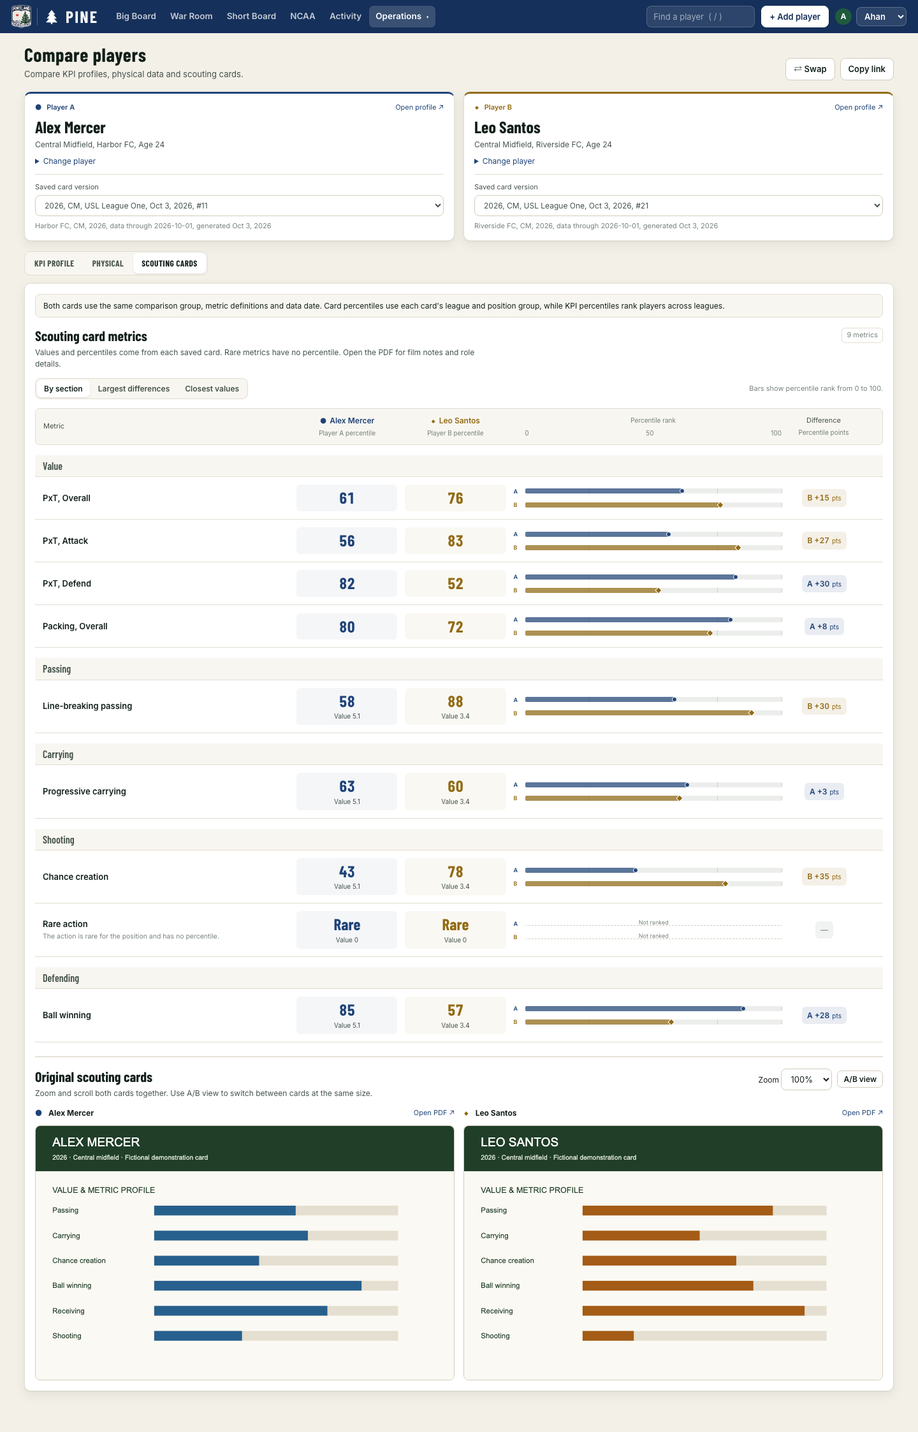
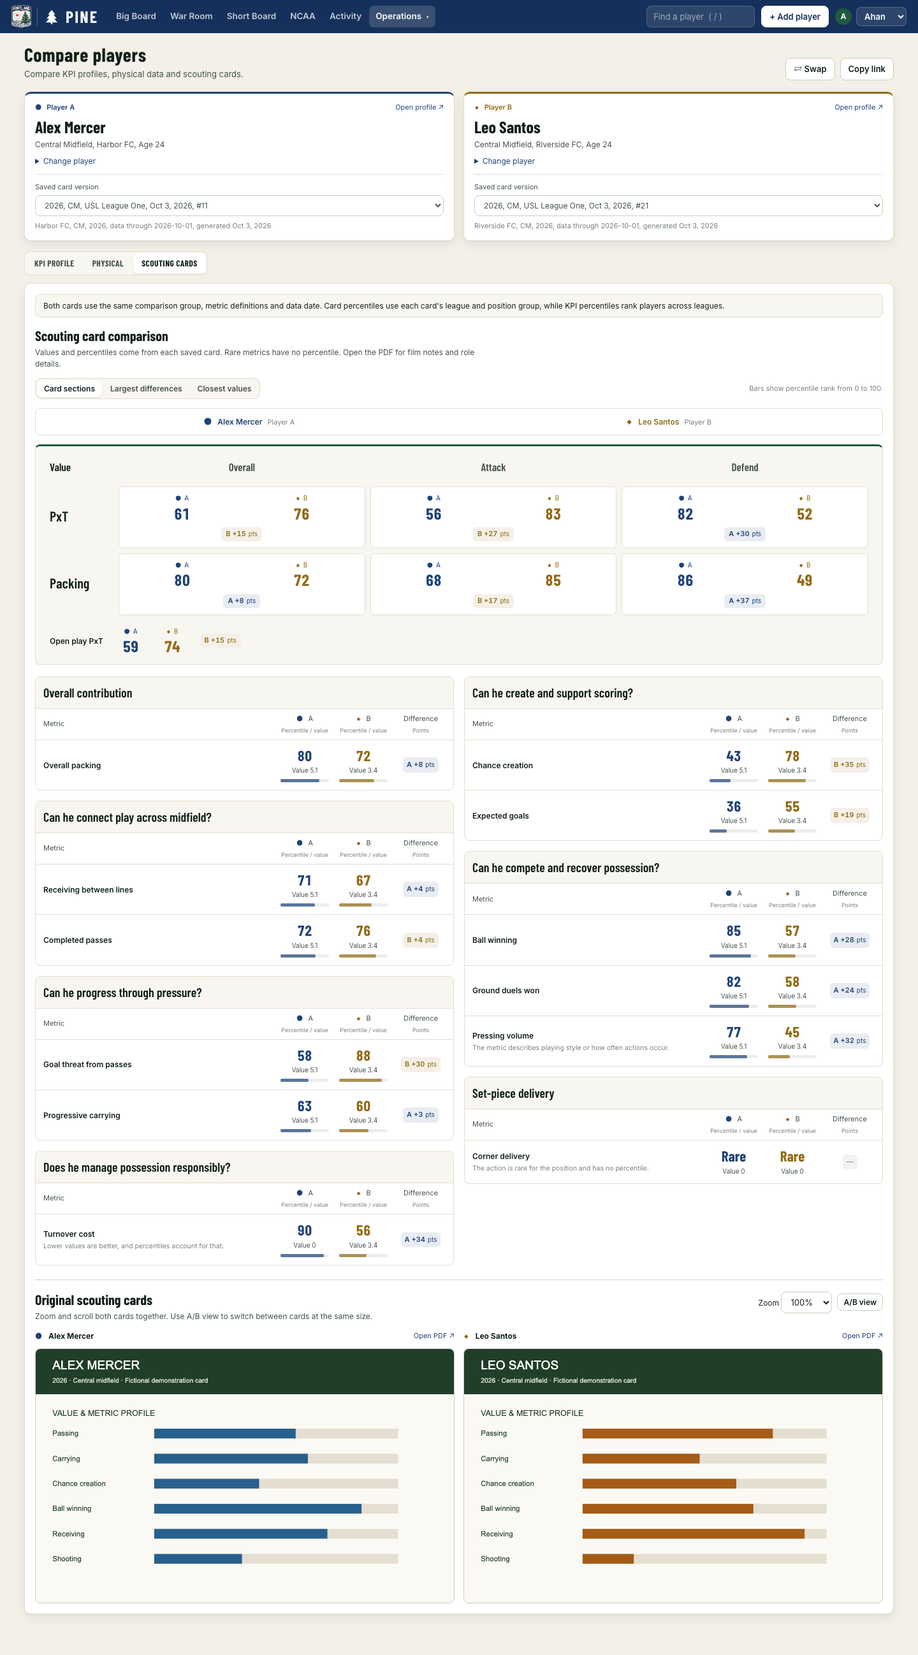
Organize scouting comparisons like the player card

diff --git a/public/scouting-card-sections.js b/public/scouting-card-sections.js
@@ -1,0 +1,54 @@
+// Display sections from hearts-of-pine/data/reference/metric_grid.yml.
+// Source commit: 6a42493dc005e3154ce89d02b5baec21a65f140b. No scores or metric definitions are copied.
+// Keep the question order and metric IDs in sync with the card renderer.
+export const cardQuestions = {
+  CB: [
+    {"label": "Can he protect space and prevent danger?", "metrics": ["SUFFERED_BYPASSED_OPPONENTS", "CONCEDED_PACKING_XG", "DEFENSIVE_POSITIONAL_PLAY_SCORE_PACKING", "NUMBER_OF_FOULS"]},
+    {"label": "Can he compete in both boxes?", "metrics": ["WON_AERIAL_DUELS", "RATIO_AERIAL_DUELS", "WON_GROUND_DUELS", "OFFENSIVE_HEADER_SCORE", "SHOT_AT_GOAL_NUMBER_BY_ACTION_HEADER", "SHOT_XG", "SHOT_AT_GOAL_NUMBER", "GOALS"]},
+    {"label": "Does he anticipate and recover the ball?", "metrics": ["BALL_WIN_NUMBER", "BALL_WIN_REMOVED_OPPONENTS", "BALL_WIN_NUMBER_AT_PHASE_DEFENSIVE_TRANSITION", "NUMBER_OF_PRESSES"]},
+    {"label": "Can he help us play out safely?", "metrics": ["OFFENSIVE_TOUCHES", "SUCCESSFUL_PASSES", "BYPASSED_OPPONENTS_RECEIVING", "BALL_LOSS_ADDED_OPPONENTS"]},
+    {"label": "Can he break lines and change the attack?", "metrics": ["PROGRESSION_SCORE_PACKING", "PXT_PASS_PRO", "BYPASSED_OPPONENTS", "SUCCESSFUL_PASSES_BY_ACTION_DIAGONAL_PASS", "BYPASSED_OPPONENTS_BY_ACTION_CHIPPED_PASS", "BYPASSED_OPPONENTS_TO_PITCH_POSITION_FINAL_THIRD", "BYPASSED_OPPONENTS_BY_ACTION_DRIBBLE", "PXT_DRIBBLE_PRO", "DRIBBLE_SCORE", "NUMBER_OF_FOULS_WON", "EXPECTED_GOAL_ASSISTS"]},
+  ],
+  FB: [
+    {"label": "Can he defend his flank?", "metrics": ["SUFFERED_BYPASSED_OPPONENTS", "CONCEDED_PACKING_XG", "DEFENSIVE_POSITIONAL_PLAY_SCORE_PACKING", "WON_GROUND_DUELS", "WON_AERIAL_DUELS", "RATIO_AERIAL_DUELS", "NUMBER_OF_FOULS"]},
+    {"label": "Can he move us up the pitch?", "metrics": ["PROGRESSION_SCORE_PACKING", "PXT_PASS_PRO", "BYPASSED_OPPONENTS", "BYPASSED_OPPONENTS_BY_ACTION_DRIBBLE", "PXT_DRIBBLE_PRO", "DRIBBLE_SCORE", "BYPASSED_OPPONENTS_TO_PITCH_POSITION_FINAL_THIRD", "SUCCESSFUL_PASSES_BY_ACTION_DIAGONAL_PASS", "BYPASSED_OPPONENTS_BY_ACTION_CHIPPED_PASS", "NUMBER_OF_FOULS_WON"]},
+    {"label": "Can he receive and combine effectively?", "metrics": ["BYPASSED_OPPONENTS_RECEIVING", "PXT_REC", "OFFENSIVE_TOUCHES_BY_ACTION_AVAILABILITY_BTL", "SUCCESSFUL_PASSES", "OFFENSIVE_TOUCHES", "BALL_LOSS_ADDED_OPPONENTS", "PXT_PASS_FAIL"]},
+    {"label": "Does he provide service and goal threat?", "metrics": ["EXPECTED_GOAL_ASSISTS", "SUCCESSFUL_PASSES_BY_ACTION_HIGH_CROSS", "SHOT_XG", "SHOT_AT_GOAL_NUMBER", "GOALS", "OFFENSIVE_HEADER_SCORE", "SHOT_AT_GOAL_NUMBER_BY_ACTION_HEADER"]},
+    {"label": "Can he recover and defend transitions?", "metrics": ["BALL_WIN_NUMBER", "BALL_WIN_REMOVED_OPPONENTS", "INTERVENTIONS_SCORE_PACKING", "BALL_WIN_NUMBER_AT_PHASE_DEFENSIVE_TRANSITION", "NUMBER_OF_PRESSES", "NUMBER_OF_PRESSES_COUNTER_PRESS", "OFFENSIVE_TOUCHES_AT_PHASE_SECOND_BALL"]},
+  ],
+  DM: [
+    {"label": "Can he protect central space?", "metrics": ["SUFFERED_BYPASSED_OPPONENTS", "CONCEDED_PACKING_XG", "DEFENSIVE_POSITIONAL_PLAY_SCORE_PACKING", "NUMBER_OF_FOULS"]},
+    {"label": "Can he win contests and regain possession?", "metrics": ["BALL_WIN_NUMBER", "INTERVENTIONS_SCORE_PACKING", "BALL_WIN_REMOVED_OPPONENTS", "BALL_WIN_NUMBER_AT_PHASE_DEFENSIVE_TRANSITION", "WON_GROUND_DUELS", "WON_AERIAL_DUELS", "RATIO_AERIAL_DUELS", "OFFENSIVE_HEADER_SCORE", "SHOT_AT_GOAL_NUMBER_BY_ACTION_HEADER", "OFFENSIVE_TOUCHES_AT_PHASE_SECOND_BALL", "NUMBER_OF_PRESSES", "NUMBER_OF_PRESSES_COUNTER_PRESS"]},
+    {"label": "Can he give teammates a reliable outlet?", "metrics": ["BYPASSED_OPPONENTS_RECEIVING", "PXT_REC", "OFFENSIVE_TOUCHES_BY_ACTION_AVAILABILITY_BTL", "OFFENSIVE_TOUCHES_BY_ACTION_AVAILABILITY_IN_THE_BACK", "OFFENSIVE_TOUCHES_BY_ACTION_HOLD_UP_PLAY", "OFFENSIVE_TOUCHES_IN_PACKING_ZONE_AM", "OFFENSIVE_TOUCHES", "SUCCESSFUL_PASSES"]},
+    {"label": "Can he progress and support attacks?", "metrics": ["PROGRESSION_SCORE_PACKING", "PXT_PASS_PRO", "BYPASSED_OPPONENTS", "BYPASSED_OPPONENTS_BY_ACTION_DRIBBLE", "PXT_DRIBBLE_PRO", "DRIBBLE_SCORE", "SUCCESSFUL_PASSES_BY_ACTION_DIAGONAL_PASS", "BYPASSED_OPPONENTS_BY_ACTION_CHIPPED_PASS", "BYPASSED_OPPONENTS_TO_PITCH_POSITION_FINAL_THIRD", "NUMBER_OF_FOULS_WON", "EXPECTED_GOAL_ASSISTS", "SHOT_XG", "SHOT_AT_GOAL_NUMBER", "GOALS", "POSTSHOT_XG"]},
+    {"label": "Does he balance progression and security?", "metrics": ["BALL_LOSS_ADDED_OPPONENTS", "PXT_PASS_FAIL"]},
+  ],
+  CM: [
+    {"label": "Can he connect play across midfield?", "metrics": ["BYPASSED_OPPONENTS_RECEIVING", "PXT_REC", "OFFENSIVE_TOUCHES_BY_ACTION_AVAILABILITY_BTL", "OFFENSIVE_TOUCHES_BY_ACTION_AVAILABILITY_IN_THE_BACK", "OFFENSIVE_TOUCHES_BY_ACTION_HOLD_UP_PLAY", "OFFENSIVE_TOUCHES_IN_PACKING_ZONE_AM", "OFFENSIVE_TOUCHES", "SUCCESSFUL_PASSES"]},
+    {"label": "Can he progress through pressure?", "metrics": ["PROGRESSION_SCORE_PACKING", "PXT_PASS_PRO", "BYPASSED_OPPONENTS", "BYPASSED_OPPONENTS_BY_ACTION_DRIBBLE", "PXT_DRIBBLE_PRO", "DRIBBLE_SCORE", "SUCCESSFUL_PASSES_BY_ACTION_DIAGONAL_PASS", "BYPASSED_OPPONENTS_BY_ACTION_CHIPPED_PASS", "BYPASSED_OPPONENTS_TO_PITCH_POSITION_FINAL_THIRD", "NUMBER_OF_FOULS_WON"]},
+    {"label": "Does he manage possession responsibly?", "metrics": ["BALL_LOSS_ADDED_OPPONENTS", "PXT_PASS_FAIL", "NUMBER_OF_FOULS"]},
+    {"label": "Can he create and support scoring?", "metrics": ["EXPECTED_GOAL_ASSISTS", "SHOT_XG", "SHOT_AT_GOAL_NUMBER", "GOALS", "POSTSHOT_XG", "OFFENSIVE_HEADER_SCORE", "SHOT_AT_GOAL_NUMBER_BY_ACTION_HEADER"]},
+    {"label": "Can he compete and recover possession?", "metrics": ["BALL_WIN_NUMBER", "BALL_WIN_REMOVED_OPPONENTS", "INTERVENTIONS_SCORE_PACKING", "SUFFERED_BYPASSED_OPPONENTS", "CONCEDED_PACKING_XG", "WON_AERIAL_DUELS", "RATIO_AERIAL_DUELS", "WON_GROUND_DUELS", "NUMBER_OF_PRESSES", "NUMBER_OF_PRESSES_COUNTER_PRESS", "BALL_WIN_NUMBER_AT_PHASE_DEFENSIVE_TRANSITION", "DEFENSIVE_POSITIONAL_PLAY_SCORE_PACKING", "OFFENSIVE_TOUCHES_AT_PHASE_SECOND_BALL"]},
+  ],
+  AM: [
+    {"label": "Can he find and use space between lines?", "metrics": ["BYPASSED_OPPONENTS_RECEIVING", "PXT_REC", "OFFENSIVE_TOUCHES_BY_ACTION_AVAILABILITY_BTL", "OFFENSIVE_TOUCHES_BY_ACTION_AVAILABILITY_IN_THE_BACK", "OFFENSIVE_TOUCHES_BY_ACTION_HOLD_UP_PLAY", "OFFENSIVE_TOUCHES_IN_PACKING_ZONE_AM", "OFFENSIVE_TOUCHES"]},
+    {"label": "Can he create chances for others?", "metrics": ["EXPECTED_GOAL_ASSISTS", "BYPASSED_OPPONENTS_TO_PITCH_POSITION_FINAL_THIRD", "PXT_PASS_PRO", "PROGRESSION_SCORE_PACKING", "BYPASSED_OPPONENTS", "SUCCESSFUL_PASSES_BY_ACTION_DIAGONAL_PASS", "BYPASSED_OPPONENTS_BY_ACTION_CHIPPED_PASS"]},
+    {"label": "Can he beat pressure and combine?", "metrics": ["BYPASSED_OPPONENTS_BY_ACTION_DRIBBLE", "PXT_DRIBBLE_PRO", "DRIBBLE_SCORE", "NUMBER_OF_FOULS_WON", "BALL_LOSS_ADDED_OPPONENTS", "PXT_PASS_FAIL", "SUCCESSFUL_PASSES"]},
+    {"label": "Does he offer his own goal threat?", "metrics": ["SHOT_XG", "SHOT_AT_GOAL_NUMBER", "GOALS", "POSTSHOT_XG", "OFFENSIVE_HEADER_SCORE", "SHOT_AT_GOAL_NUMBER_BY_ACTION_HEADER"]},
+    {"label": "Can he contribute to the press?", "metrics": ["BALL_WIN_NUMBER", "BALL_WIN_REMOVED_OPPONENTS", "INTERVENTIONS_SCORE_PACKING", "SUFFERED_BYPASSED_OPPONENTS", "CONCEDED_PACKING_XG", "WON_AERIAL_DUELS", "RATIO_AERIAL_DUELS", "WON_GROUND_DUELS", "NUMBER_OF_PRESSES", "NUMBER_OF_PRESSES_COUNTER_PRESS", "BALL_WIN_NUMBER_AT_PHASE_DEFENSIVE_TRANSITION", "DEFENSIVE_POSITIONAL_PLAY_SCORE_PACKING", "OFFENSIVE_TOUCHES_AT_PHASE_SECOND_BALL", "NUMBER_OF_FOULS"]},
+  ],
+  W: [
+    {"label": "Can he beat defenders and advance attacks?", "metrics": ["BYPASSED_OPPONENTS_BY_ACTION_DRIBBLE", "PXT_DRIBBLE_PRO", "DRIBBLE_SCORE", "NUMBER_OF_FOULS_WON", "PROGRESSION_SCORE_PACKING", "BYPASSED_OPPONENTS", "PXT_PASS_PRO", "BALL_LOSS_ADDED_OPPONENTS"]},
+    {"label": "Can he get the ball in dangerous positions?", "metrics": ["BYPASSED_OPPONENTS_RECEIVING", "PXT_REC", "OFFENSIVE_TOUCHES_BY_ACTION_AVAILABILITY_BTL", "OFFENSIVE_TOUCHES_BY_ACTION_AVAILABILITY_IN_THE_BACK", "OFFENSIVE_TOUCHES_BY_ACTION_HOLD_UP_PLAY", "OFFENSIVE_TOUCHES_IN_PACKING_ZONE_AM", "OFFENSIVE_TOUCHES"]},
+    {"label": "Can he create for teammates?", "metrics": ["EXPECTED_GOAL_ASSISTS", "SUCCESSFUL_PASSES_BY_ACTION_HIGH_CROSS", "BYPASSED_OPPONENTS_TO_PITCH_POSITION_FINAL_THIRD", "SUCCESSFUL_PASSES", "SUCCESSFUL_PASSES_BY_ACTION_DIAGONAL_PASS", "BYPASSED_OPPONENTS_BY_ACTION_CHIPPED_PASS", "PXT_PASS_FAIL"]},
+    {"label": "Does he threaten goal himself?", "metrics": ["SHOT_XG", "SHOT_AT_GOAL_NUMBER", "GOALS", "POSTSHOT_XG", "OFFENSIVE_HEADER_SCORE", "SHOT_AT_GOAL_NUMBER_BY_ACTION_HEADER"]},
+    {"label": "Can he press and fulfill defensive duties?", "metrics": ["BALL_WIN_NUMBER", "BALL_WIN_REMOVED_OPPONENTS", "INTERVENTIONS_SCORE_PACKING", "SUFFERED_BYPASSED_OPPONENTS", "CONCEDED_PACKING_XG", "WON_AERIAL_DUELS", "RATIO_AERIAL_DUELS", "WON_GROUND_DUELS", "NUMBER_OF_PRESSES", "NUMBER_OF_PRESSES_COUNTER_PRESS", "OFFENSIVE_TOUCHES_AT_PHASE_SECOND_BALL", "NUMBER_OF_FOULS"]},
+  ],
+  CF: [
+    {"label": "Does he get into scoring opportunities?", "metrics": ["SHOT_XG", "SHOT_AT_GOAL_NUMBER", "BYPASSED_OPPONENTS_RECEIVING", "PXT_REC", "OFFENSIVE_TOUCHES_BY_ACTION_AVAILABILITY_BTL", "OFFENSIVE_TOUCHES_IN_PACKING_ZONE_AM", "BYPASSED_OPPONENTS_BY_ACTION_DRIBBLE", "PXT_DRIBBLE_PRO", "DRIBBLE_SCORE", "OFFENSIVE_TOUCHES", "NUMBER_OF_FOULS_WON"]},
+    {"label": "How does he execute those chances?", "metrics": ["GOALS", "POSTSHOT_XG"]},
+    {"label": "Can he link play and bring others in?", "metrics": ["OFFENSIVE_TOUCHES_BY_ACTION_HOLD_UP_PLAY", "OFFENSIVE_TOUCHES_BY_ACTION_AVAILABILITY_IN_THE_BACK", "SUCCESSFUL_PASSES", "PROGRESSION_SCORE_PACKING", "BYPASSED_OPPONENTS", "PXT_PASS_PRO", "EXPECTED_GOAL_ASSISTS", "SUCCESSFUL_PASSES_BY_ACTION_DIAGONAL_PASS", "BYPASSED_OPPONENTS_BY_ACTION_CHIPPED_PASS", "BYPASSED_OPPONENTS_TO_PITCH_POSITION_FINAL_THIRD", "BALL_LOSS_ADDED_OPPONENTS"]},
+    {"label": "Can he compete for service?", "metrics": ["OFFENSIVE_HEADER_SCORE", "SHOT_AT_GOAL_NUMBER_BY_ACTION_HEADER", "WON_AERIAL_DUELS", "RATIO_AERIAL_DUELS", "OFFENSIVE_TOUCHES_AT_PHASE_SECOND_BALL"]},
+    {"label": "Can he lead the defensive effort?", "metrics": ["BALL_WIN_NUMBER", "SUFFERED_BYPASSED_OPPONENTS", "CONCEDED_PACKING_XG", "WON_GROUND_DUELS", "NUMBER_OF_PRESSES", "NUMBER_OF_PRESSES_COUNTER_PRESS", "NUMBER_OF_FOULS"]},
+  ],
+};

diff --git a/public/styles.css b/public/styles.css
@@ -1317,3 +1317,70 @@ details[open] > summary .kpi-chev { transform: rotate(45deg); }
 }
 
 @media (max-width: 450px) { .cmp-context { grid-template-columns: minmax(0, 1fr); } }
+
+/* Saved scouting cards keep their value matrix and whole scouting sections. */
+.cmp-scout-legend { display: grid; grid-template-columns: repeat(2, minmax(0, 1fr)); gap: 12px; background: var(--surface); padding: 10px 12px; border: 1px solid var(--line); border-radius: 7px; margin-bottom: 14px; z-index: 4; }
+.cmp-scout-card-sections > .cmp-scout-legend { position: sticky; top: var(--cmp-top, 54px); }
+.cmp-scout-legend small { display: inline; color: var(--muted); margin-left: 8px; font-size: 11px; }
+.cmp-scout-value-block { padding: 14px; background: var(--surface-2); border: 1px solid var(--line); border-top: 3px solid var(--pine); border-radius: 8px; margin-bottom: 18px; }
+.cmp-scout-values { border-collapse: separate; border-spacing: 8px; width: 100%; table-layout: fixed; }
+.cmp-scout-values th { font: 600 17px/1.2 var(--disp); text-align: center; color: var(--ink-2); padding: 0 0 5px; }
+.cmp-scout-values th:first-child { width: 100px; text-align: left; color: var(--ink); }
+.cmp-scout-values tbody th { font-size: 22px; }
+.cmp-scout-values td { text-align: center; vertical-align: middle; border: 1px solid var(--line); border-radius: 7px; background: var(--surface); padding: 10px; }
+.cmp-scout-value-pair { display: grid; grid-template-columns: repeat(2, minmax(0, 1fr)); gap: 10px; }
+.cmp-scout-score { display: block; text-align: center; min-width: 0; }
+.cmp-scout-score-label { display: block; font-size: 10px; color: var(--cmp-color); margin-bottom: 3px; }
+.cmp-scout-score .cmp-symbol { margin-right: 2px; }
+.cmp-scout-score .cmp-value { font-size: 25px; }
+.cmp-scout-score .cmp-na { font-size: 10px; overflow-wrap: anywhere; }
+.cmp-scout-value-block .cmp-gap { position: static; margin-top: 8px; font-size: 11px; padding: 3px 7px; }
+.cmp-scout-additional { display: flex; flex-wrap: wrap; gap: 12px; padding: 10px 8px 0; }
+.cmp-scout-additional > div { display: flex; align-items: center; gap: 16px; font-size: 12px; }
+.cmp-scout-additional h3 { font-size: 12px; font-weight: 600; }
+.cmp-scout-additional .cmp-scout-value-pair { min-width: 120px; }
+.cmp-scout-additional .cmp-gap { margin-top: 0; }
+.cmp-scout-sections { columns: 2; column-gap: 16px; }
+.cmp-scout-section { break-inside: avoid; margin-bottom: 16px; border: 1px solid var(--line); border-radius: 8px; overflow: hidden; min-width: 0; }
+.cmp-scout-section h3 { font: 600 20px/1.25 var(--disp); padding: 12px; background: var(--surface-2); border-bottom: 1px solid var(--line); }
+.cmp-scout-metric, .cmp-scout-section-columns { display: grid; grid-template-columns: minmax(100px, 1fr) 82px 82px 78px; gap: 10px; align-items: center; padding: 12px; }
+.cmp-scout-section-columns { font-size: 11px; color: var(--ink-2); border-bottom: 1px solid var(--line); padding-top: 8px; padding-bottom: 8px; text-align: center; }
+.cmp-scout-section-columns > span:first-child { text-align: left; }
+.cmp-scout-section-columns small { display: block; font-size: 9px; color: var(--muted); margin-top: 3px; }
+.cmp-scout-metric { border-bottom: 1px solid var(--line); }
+.cmp-scout-metric:last-child { border-bottom: 0; }
+.cmp-scout-metric .cmp-metric b { font-size: 12px; }
+.cmp-scout-metric .cmp-value { font-size: 23px; }
+.cmp-scout-metric .cmp-gap { position: static; font-size: 11px; padding: 4px 6px; }
+.cmp-scout-metric .cmp-scout-score-label { display: none; }
+.cmp-scout-mini { display: block; height: 5px; margin: 7px 3px 0; border-radius: 2px; background: var(--none-bg); }
+.cmp-scout-mini i { display: block; height: 100%; border-radius: 2px; background: var(--cmp-color); opacity: .7; }
+@media (max-width: 1100px) {
+  .cmp-scout-metric, .cmp-scout-section-columns { grid-template-columns: minmax(80px, 1fr) 58px 58px 66px; gap: 8px; }
+}
+@media (max-width: 850px) {
+  .cmp-scout-sections { columns: 1; }
+  .cmp-scout-metric, .cmp-scout-section-columns { grid-template-columns: minmax(100px, 1fr) 82px 82px 78px; }
+}
+@media (max-width: 700px) {
+  .cmp-scout-legend { padding: 10px; gap: 8px; }
+  .cmp-scout-legend small { display: block; margin-left: 0; margin-top: 3px; }
+  .cmp-scout-value-block { padding: 8px 2px; }
+  .cmp-scout-values { border-spacing: 4px 8px; }
+  .cmp-scout-values th { font-size: 15px; }
+  .cmp-scout-values th:first-child { width: 48px; }
+  .cmp-scout-values tbody th { font-size: 18px; }
+  .cmp-scout-values td { padding: 8px 3px; }
+  .cmp-scout-value-pair { gap: 3px; }
+  .cmp-scout-value-block .cmp-value { font-size: 22px; }
+  .cmp-scout-value-block .cmp-gap { font-size: 10px; gap: 2px; padding: 3px 4px; }
+  .cmp-scout-score-label { font-size: 9px; }
+  .cmp-scout-additional { padding: 8px 6px 2px; }
+  .cmp-scout-additional > div { flex-wrap: wrap; gap: 8px; }
+  .cmp-scout-metric { position: relative; grid-template-columns: repeat(2, minmax(0, 1fr)); gap: 10px; }
+  .cmp-scout-metric .cmp-metric { grid-column: 1 / -1; padding-right: 80px; min-height: 22px; }
+  .cmp-scout-metric .cmp-gap { position: absolute; top: 12px; right: 12px; }
+  .cmp-scout-metric .cmp-scout-score-label { display: block; }
+  .cmp-scout-metric .cmp-scout-score { padding: 6px; background: color-mix(in srgb, var(--cmp-color) 5%, var(--surface)); border-radius: 6px; }
+  .cmp-scout-section-columns { display: none; }
+}

diff --git a/scripts/comparison.test.js b/scripts/comparison.test.js
@@ -1,7 +1,7 @@
 import test from 'node:test';
 import assert from 'node:assert/strict';
 import { parseComparison, comparisonPath, mergeRows, gap, orderRows, choosePair, kpiComparable, kpiRows,
-  physicalComparable, physicalRows, scoutingComparable, scoutingRows } from '../public/comparison-data.js';
+  physicalComparable, physicalRows, scoutingComparable, scoutingRows, scoutingSections } from '../public/comparison-data.js';
 
 const metric = (id, percentile, value = 0) => ({ id, label: id, percentile, value, direction: 'higher' });
 const kpi = () => ({ position: 'MID', iteration: { id: 1916, season: '2026' }, benchmark_competitions: ['USL League One', 'USL Championship'], min_share_used: 5,
@@ -82,4 +82,39 @@ test('scouting comparisons retain original values, suppress rare ranks and rejec
   assert.equal(scoutingComparable(missing, structuredClone(missing)), false);
   assert.equal(kpiComparable({}, {}), false);
   assert.equal(physicalComparable({}, {}), false);
+});
+
+test('saved card value tiles keep their scoring system and phase, including an existing open play rank', () => {
+  const card = snapshot(), r = card.render_input;
+  r.value = { PxT: ['overall', 'attack', 'defend'], Packing: ['packing'] };
+  r.subject.profiles[0].percentiles = { overall: 0, attack: 82, defend: null, packing: 71, IMPECT_WITHOUT_FOULS_AND_SET_PIECES_SCORE_PXT: 42 };
+  const values = scoutingRows(card).filter(r => r.kind === 'value');
+  assert.deepEqual(values.map(r => [r.family, r.phase, r.percentile]), [
+    ['PxT', 'Overall', 0], ['PxT', 'Attack', 82], ['PxT', 'Defend', null], ['Packing', 'Overall', 71], ['PxT', 'Open play', 42],
+  ]);
+  delete r.subject.profiles[0].percentiles.IMPECT_WITHOUT_FOULS_AND_SET_PIECES_SCORE_PXT;
+  assert.equal(scoutingRows(card).filter(r => r.kind === 'value').length, 4, 'a missing source field does not create an extra tile');
+});
+
+test('card sections use position questions and retain every paired metric, including unfamiliar IDs', () => {
+  const row = (metric, group) => ({ id: `metric:${metric}`, kind: 'metric', label: metric, group,
+    a: { value: 0, percentile: 0 }, b: { value: null, percentile: null } });
+  const rows = [row('CORNER_SCORE', 'Set pieces'), row('BALL_LOSS_ADDED_OPPONENTS', 'Passing'), row('PXT_PASS_PRO', 'Passing'),
+    row('IMPECT_SCORE_PACKING', 'Overall'), row('SUCCESSFUL_PASSES', 'Passing'), row('UNFAMILIAR', 'Carrying')];
+  const original = JSON.stringify(rows), sections = scoutingSections(rows, ['CM', 'CM']);
+  assert.deepEqual(sections.map(s => s.label), ['Overall contribution', 'Can he connect play across midfield?',
+    'Can he progress through pressure?', 'Does he manage possession responsibly?', 'Set-piece delivery', 'Carrying']);
+  const all = sections.flatMap(s => s.rows);
+  assert.equal(all.length, rows.length);
+  assert.equal(new Set(all.map(r => r.id)).size, rows.length);
+  for (const r of rows) assert.equal(all.find(v => v.id === r.id), r, 'layout keeps the original paired values');
+  assert.equal(JSON.stringify(rows), original);
+});
+
+test('different or unknown card positions retain the saved section labels', () => {
+  const rows = [{ id: 'metric:PXT_PASS_PRO', kind: 'metric', group: 'Passing' }, { id: 'metric:BALL_WIN_NUMBER', kind: 'metric', group: 'Defending' }];
+  for (const positions of [['CM', 'FB'], ['unknown', 'unknown'], []]) {
+    assert.deepEqual(scoutingSections(rows, positions).map(s => s.label), ['Passing', 'Defending']);
+    assert.deepEqual(scoutingSections(rows, positions).flatMap(s => s.rows), rows);
+  }
 });

diff --git a/public/comparison-data.js b/public/comparison-data.js
@@ -1,3 +1,5 @@
+import { cardQuestions } from './scouting-card-sections.js';
+
 // Presentation only: align existing values by source IDs; never re-score players.
 export const finite = v => typeof v === 'number' && Number.isFinite(v);
 export const pct = v => finite(v) && v >= 0 && v <= 100 ? v : null;
@@ -85,15 +87,39 @@ export function scoutingRows(envelope) {
   if (r?.schema_version !== 16 || !profile) return [];
   const tiles = Object.entries(r.value || {}).flatMap(([family, metrics]) => metrics.map((metric, i) => ({
     id: `tile:${metric}`, label: `${family}, ${['Overall', 'Attack', 'Defend'][i] || metric}`, group: 'Value',
+    kind: 'value', family, phase: ['Overall', 'Attack', 'Defend'][i] || metric,
     percentile: pct(profile.percentiles?.[metric]), direction: 'higher',
   })));
+  const openPlay = 'IMPECT_WITHOUT_FOULS_AND_SET_PIECES_SCORE_PXT';
+  if (Object.hasOwn(profile.percentiles || {}, openPlay)) tiles.push({ id: `tile:${openPlay}`, label: 'Open play PxT',
+    group: 'Value', kind: 'value', family: 'PxT', phase: 'Open play', percentile: pct(profile.percentiles[openPlay]), direction: 'higher' });
   const names = { overall: 'Overall', passing: 'Passing', receiving: 'Receiving', carrying: 'Carrying', shooting: 'Shooting', defending: 'Defending', set_pieces: 'Set pieces' };
   return [...tiles, ...(profile.grid || []).filter(m => m.metric && !m.film).map(m => ({
-    id: `metric:${m.metric}`, label: m.name || m.short, group: names[m.bucket] || m.bucket,
+    id: `metric:${m.metric}`, label: m.name || m.short, group: names[m.bucket] || m.bucket || 'Other metrics', kind: 'metric', code: m.code,
     value: m.value, percentile: m.rare ? null : pct(m.percentile), direction: m.direction,
     note: m.rare ? 'The action is rare for the position and has no percentile.' : m.code === 'D' ? 'The metric describes playing style or how often actions occur.' : m.direction === 'lower' ? 'Lower values are better, and percentiles account for that.' : '',
     rare: m.rare,
   }))];
+}
+// Organize both players together. Different position groups keep the saved bucket labels.
+export function scoutingSections(rows, positions = []) {
+  const groups = [...new Set(positions.filter(Boolean))], questions = groups.length === 1 ? cardQuestions[groups[0]] || [] : [];
+  const remaining = new Map(rows.filter(r => r.kind !== 'value').map(r => [r.id, r]));
+  const sections = [];
+  const take = (label, ids) => {
+    const found = ids.map(id => remaining.get(`metric:${id}`)).filter(Boolean);
+    for (const r of found) remaining.delete(r.id);
+    if (found.length) sections.push({ label, rows: found });
+  };
+  if (questions.length) {
+    take('Overall contribution', ['IMPECT_SCORE_PACKING']);
+    for (const q of questions) take(q.label, q.metrics);
+    take('Set-piece delivery', ['CORNER_SCORE', 'FREE_KICK_SCORE']);
+  }
+  for (const label of new Set([...remaining.values()].map(r => r.group))) {
+    sections.push({ label, rows: [...remaining.values()].filter(r => r.group === label) });
+  }
+  return sections;
 }
 function gridHash(r) {
   const hashes = r?.provenance?.sha256 || {};

diff --git a/src/server.js b/src/server.js
@@ -1420,6 +1420,7 @@ const ASSET_VERSION = createHash("sha1")
   .update(readFileSync(join(PUBLIC_DIR, "app.js")))
   .update(readFileSync(join(PUBLIC_DIR, "compare.js")))
   .update(readFileSync(join(PUBLIC_DIR, "comparison-data.js")))
+  .update(readFileSync(join(PUBLIC_DIR, "scouting-card-sections.js")))
   .update(readFileSync(join(PUBLIC_DIR, "styles.css")))
   .digest("hex")
   .slice(0, 8);

diff --git a/README.md b/README.md
@@ -403,7 +403,9 @@ syncs leave the signing status alone.
   and open KPI categories to see their metrics. Player names stay visible as you scroll, and phone layouts keep player controls on separate rows.
   You can choose each player's season, position, physical data and saved card separately, and share your selections by copying the link.
   Percentile gaps and sorting by difference are unavailable when the comparison groups differ.
-  The scouting table uses saved card data in render schema 16. You can also compare the original cards with linked zoom and scrolling,
+  The scouting comparison uses saved card data in render schema 16. PxT and Packing appear in an Overall, Attack and Defend matrix,
+  followed by whole scouting sections in two columns. Each section uses the card's questions for the selected position.
+  Different or unknown positions keep the saved section labels. You can also compare the original cards with linked zoom and scrolling,
   side by side or in A/B view, and open their PDFs. The comparison page uses existing data without creating scores or requesting new cards.
 - **Structured scouting cards**: complete renderer inputs can be stored as compressed JSON alongside each PDF, bound to its exact PDF bytes. See [snapshot storage, worker contract and backfill](docs/card-snapshots.md).
 - **Pitch maps**: a panel on the player page (Impect-linked players) under the player card. It shows the card's two
@@ -535,3 +537,8 @@ Staff notes, verdicts, decisions, board ranks, and account data are excluded.
 The endpoint only reads the database and sends `Cache-Control: no-store`.
 
 To review the comparison page with fictional players, run `node scripts/preview-comparison.mjs` and open the printed URL. The preview uses a temporary database and demo data, with provider access disabled. Screenshots for desktop and phone in light and dark mode are in `docs/screenshots/comparison/`.
+
+The scouting comparison's display sections are in `public/scouting-card-sections.js`.
+The file copies question headings and metric IDs from Hearts of Pine's `data/reference/metric_grid.yml`,
+with the source commit recorded in its header. Update the display sections when the card layout changes.
+Metrics absent from the display sections remain under their saved section labels, and all values and percentiles come from the saved cards.
